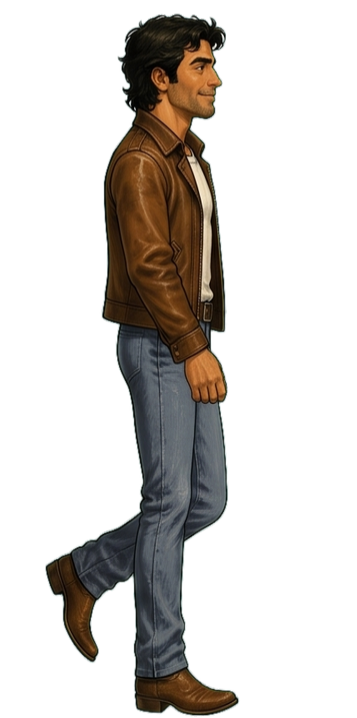
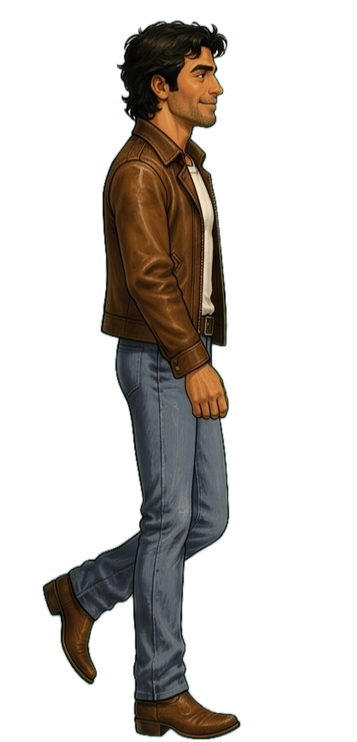
Alan's one-sheet walk: matching hair across the stride, head size matched, walk lab slip computed per change of painting
scripts/walk_head_swap.py (far-leg frames take the near-leg heads), walk_sheet.py HEAD_K x1.025, walk lab
slip from the art and plant data instead of a live reading. Still a review candidate; entry 14 in
docs/animation_handoff.md.

Claude-Session: https://claude.ai/code/session_01UtGBnvdVMycaw7qyBygjUk

diff --git a/js/walklab.js b/js/walklab.js
@@ -6,7 +6,10 @@
 //   size   the head's width against the cycle's median frame (a frame drawn bigger or smaller makes him pulse)
 //   rise   the figure's height against the cycle's median frame (the bob: low just after the heel lands, high passing)
 //   floor  where the feet touch the ground
-// and, while he walks, how far the planted foot drifts on the floor per step. Nothing here changes the game.
+//   slip   at each change of painting, how far the next painting's boot lands from where the planted foot stood,
+//          computed from the art, the plant data (S.WALK_PLANT) and the step lengths the engine uses (walkLen), so
+//          the same cycle always gives the same numbers (the live readout under the buttons depends on timing)
+// Nothing here changes the game.
 (function () {
   const S = window.S, { G } = S, E = window.Engine;
   const $ = s => document.querySelector(s);
@@ -49,12 +52,37 @@
     const ws = [];
     for (let j = top; j < top + Math.max(4, fig * 0.09); j++) { let l = -1, r = -1; for (let i = 0; i < W; i++) if (a(i, j)) { if (l < 0) l = i; r = i; } if (l >= 0) ws.push(r - l); }
     ws.sort((p, q) => p - q);
-    // feet on the floor: opaque columns in the bottom 1.5% above the feet line, in runs
-    const band = Math.max(3, fig * 0.015), cols = [];
+    // feet on the floor: opaque columns in the bottom 2.5% above the feet line, in runs (a boot up on its toes still counts);
+    // each foot's position is the centre of its boot (the opaque pixels of that run over the bottom 10% of the figure),
+    // the same point scripts/walk_plant.py measures for S.WALK_PLANT, so a heel strike and a flat foot compare alike
+    const band = Math.max(3, fig * 0.025), cols = [];
     for (let i = 0; i < W; i++) { let on = false; for (let j = Math.round(fy - band); j <= fy; j++) if (j >= 0 && a(i, j)) { on = true; break; } cols.push(on); }
     const feet = []; let s0 = -1;
     cols.concat([false]).forEach((on, i) => { if (on && s0 < 0) s0 = i; if (!on && s0 >= 0) { if (i - s0 > 3) feet.push([s0, i - 1]); s0 = -1; } });
-    return (MEAS[key] = { head: (ws[ws.length >> 1] || 0) / sp.h, rise: fig / sp.h, feet, sp });
+    const boot = Math.max(6, fig * 0.10);
+    const centre = ([l, r]) => { // grow the run sideways over the boot band, then the mean x of its opaque pixels
+      let L = l, R = r, n = 0, sx = 0; const on = i => { for (let j = Math.round(fy - boot); j <= fy; j++) if (j >= 0 && a(i, j)) return true; return false; };
+      while (L > 0 && on(L - 1)) L--; while (R < W - 1 && on(R + 1)) R++;
+      for (let i = L; i <= R; i++) for (let j = Math.round(fy - boot); j <= fy; j++) if (j >= 0 && a(i, j)) { n++; sx += i; }
+      return n ? sx / n : (l + r) / 2;
+    };
+    const feetC = feet.map(centre);
+    return (MEAS[key] = { head: (ws[ws.length >> 1] || 0) / sp.h, rise: fig / sp.h, feet, feetC, sp });
+  }
+
+  // slip after each frame of a cycle, in px at the size he's drawn now: frame i is drawn with its anchor at 0, the next
+  // at walkLen[i] (the engine's step, in his heights); the planted foot is frame i's floor contact nearest its plant
+  // point, and the slip is how far the nearest floor contact of the next frame lands from it. null: no plant data.
+  function slips(frames) {
+    const P = S.WALK_PLANT || {}, F = S.CHARS[st.ch].frames, p = G.player;
+    if (!frames.length || !frames.every(k => P[k]) || !F.walkLen || F.walk.join() !== frames.join()) return frames.map(() => null);
+    const px = p && p.height ? p.height() : 300;
+    const contacts = k => { const m = measure(k); return m ? m.feetC.map(c => (c - m.sp.ax) / m.sp.h) : null; };
+    return frames.map((k, i) => {
+      const n = frames[(i + 1) % frames.length], ci = contacts(k), cn = contacts(n); if (!ci || !cn || !ci.length || !cn.length) return null;
+      const planted = ci.reduce((b, c) => Math.abs(c - P[k][0]) < Math.abs(b - P[k][0]) ? c : b);
+      return Math.min(...cn.map(c => Math.abs(F.walkLen[i] + c - planted))) * px;
+    });
   }
 
   // ---------------------------------------------------------------- the panel
@@ -75,12 +103,16 @@
     // sizes against the cycle's own median frame (the standing frame's hair is shaped differently)
     const ms = frames.map(measure).filter(Boolean), med = v => { const a = ms.map(v).sort((p, q) => p - q); return a[a.length >> 1]; };
     const m0 = ms.length ? { head: med(m => m.head), rise: med(m => m.rise) } : null;
-    const rows = frames.map(k => {
+    const slip = slips(frames), sl = slip.filter(v => v != null);
+    const slipLine = !sl.length ? '' : (() => { const avg = sl.reduce((a, b) => a + b, 0) / sl.length, mx = Math.max(...sl), at = frames[slip.indexOf(mx)];
+      return `Planted foot at each change of painting: average <b>${avg.toFixed(1)} px</b>, worst <b${mx > LIMITS.slide ? ' style="color:#ff9a8a"' : ''}>${mx.toFixed(1)} px</b> (after ${at.replace(st.ch + '_', '')}).`; })();
+    const sizeBad = frames.filter(k => { const m = measure(k); return m && m0 && Math.abs(m.head / m0.head - 1) > LIMITS.size; }).length;
+    const rows = frames.map((k, fi) => {
       const m = measure(k); if (!m || !m0) return `<tr><td>${k}</td><td colspan=3>(not loaded)</td></tr>`;
       const size = m.head / m0.head - 1, rise = m.rise / m0.rise - 1, bad = Math.abs(size) > LIMITS.size;
-      return `<tr${bad ? ' style="color:#ff9a8a"' : ''}><td>${k.replace(st.ch + '_', '')}</td><td>${(size * 100).toFixed(1)}%</td><td>${(rise * 100).toFixed(1)}%</td><td>${m.feet.length}</td></tr>`;
+      const sv = slip[fi];
+      return `<tr${bad ? ' style="color:#ff9a8a"' : ''}><td>${k.replace(st.ch + '_', '')}</td><td>${(size * 100).toFixed(1)}%</td><td>${(rise * 100).toFixed(1)}%</td><td>${m.feet.length}</td><td${sv > LIMITS.slide ? ' style="color:#ff9a8a"' : ''}>${sv == null ? '' : sv.toFixed(1)}</td></tr>`;
     }).join('');
-    const sizeBad = frames.filter(k => { const m = measure(k); return m && m0 && Math.abs(m.head / m0.head - 1) > LIMITS.size; }).length;
     box.innerHTML = `<b style="color:#e0b866">Walk lab</b> <span style="opacity:.7">(nothing here changes the game)</span><br>
       <label>Who <select id="wl-ch">${WALKERS().map(c => `<option${c === st.ch ? ' selected' : ''}>${c}</option>`).join('')}</select></label>
       <label>Cycle <select id="wl-cy">${names.map(n => `<option${n === st.cycle ? ' selected' : ''}>${n}</option>`).join('')}</select></label>
@@ -92,8 +124,9 @@
       Planted foot <select id="wl-lock">${[['1', 'locked'], ['0.5', 'half'], ['0', 'gliding (old)']].map(([v, n]) => `<option value="${v}"${+v === wo().lock ? ' selected' : ''}>${n}</option>`).join('')}</select>
       Between frames <select id="wl-blend">${['cut', 'dissolve', 'morph'].map(v => `<option${v === wo().blend ? ' selected' : ''}>${v}</option>`).join('')}</select>
       Timing <select id="wl-time">${[['foot', 'by the foot'], ['even', 'even (old)']].map(([v, n]) => `<option value="${v}"${v === wo().timing ? ' selected' : ''}>${n}</option>`).join('')}</select>
-      <div id="wl-live" style="margin-top:4px;color:#cfe8b0"></div>
-      <table style="margin-top:4px;border-collapse:collapse;font-size:11px" cellpadding="1"><tr style="color:#e0b866"><td>frame</td><td>size</td><td>rise</td><td>feet</td></tr>${rows}</table>
+      <div id="wl-slip" style="margin-top:4px;color:#cfe8b0">${slipLine}</div>
+      <div id="wl-live" style="margin-top:2px;opacity:.75"></div>
+      <table style="margin-top:4px;border-collapse:collapse;font-size:11px" cellpadding="1"><tr style="color:#e0b866"><td>frame</td><td>size</td><td>rise</td><td>feet</td><td>slip px</td></tr>${rows}</table>
       <div style="margin-top:3px">${frames.length ? `${frames.length} frames. Size ${sizeBad ? `<b style="color:#ff9a8a">${sizeBad} frame(s) more than ${LIMITS.size * 100}% off</b>` : 'consistent'}.` : '<b style="color:#ff9a8a">no walk cycle: this character glides</b>'}
       Rise: lowest just after a heel lands, highest passing.</div>`;
     $('#wl-ch').onchange = e => { st.ch = e.target.value; st.cycle = null; apply(); render(); };
@@ -170,7 +203,7 @@
     const live = $('#wl-live');
     if (live && slides.length) {
       const avg = slides.reduce((a, b) => a + b, 0) / slides.length, mx = Math.max(...slides);
-      live.innerHTML = `Planted foot drift per frame: average ${avg.toFixed(1)} px, worst ${mx.toFixed(1)} px ${avg > LIMITS.slide ? '<b style="color:#ff9a8a">(slides)</b>' : '(holds)'} · frame ${p.cur ? p.cur.replace(st.ch + '_', '') : ''}`;
+      live.innerHTML = `Live (depends on timing): drift per frame average ${avg.toFixed(1)} px, worst ${mx.toFixed(1)} px · frame ${p.cur ? p.cur.replace(st.ch + '_', '') : ''}`;
     } else if (live) live.textContent = p.cur ? 'frame ' + p.cur.replace(st.ch + '_', '') : '';
   }
   S.walkLab = async function () {

diff --git a/js/story/core.js b/js/story/core.js
@@ -110,8 +110,8 @@
     alan_walkUp: [-0.136], alan_walk_up1: [-0.101],
     alan_walk_pass1L: [0.061], alan_walk_up1L: [-0.105], alan_walk_pass2L: [-0.002], alan_walk_up2L: [0.004],
     alan_walk_pre1L: [0.102], alan_walk_pre2L: [0.106], alan_walk_contact_farL: [0.176, -0.170], // the low-swing walk
-    alan_walk6_p1: [0.188, -0.160], alan_walk6_p3: [0.111], alan_walk6_p5: [0.016], alan_walk6_p7: [-0.078], // the one-sheet set
-    alan_walk6_p9: [0.193, -0.171], alan_walk6_p11: [0.108], alan_walk6_p13: [0.026], alan_walk6_p15: [-0.076],
+    alan_walk6_p1: [0.190, -0.161], alan_walk6_p3: [0.115], alan_walk6_p5: [0.016], alan_walk6_p7: [-0.081], // the one-sheet set
+    alan_walk6_p9: [0.196, -0.176], alan_walk6_p11: [0.112], alan_walk6_p13: [0.024], alan_walk6_p15: [-0.081],
   };
   S.walkTiming = F => {
     const W = F.walk, P = S.WALK_PLANT;

diff --git a/index.html b/index.html
@@ -98,7 +98,7 @@
 <script src="js/engine/stills.js?v=dc1dd98f"></script>
 <script src="js/engine/saves.js?v=bf99a319"></script>
 <script src="js/engine.js?v=cd1830e0"></script>
-<script src="js/story/core.js?v=98cfb961"></script>
+<script src="js/story/core.js?v=76665310"></script>
 <script src="js/story/ines.js?v=ecf088f4"></script>
 <script src="js/story/docs.js?v=25cb1ef1"></script>
 <script src="js/story/ch1.js?v=b62e29ec"></script>

diff --git a/scripts/walk_sheet.py b/scripts/walk_sheet.py
@@ -5,6 +5,7 @@
 # base frame's canvas at ONE shared scale (median of the head-to-waist fits), feet on the floor line, head over head.
 #   python3 scripts/walk_sheet.py alan alan_walkA "<who: a man in a brown leather jacket...>" art/review/alan/walk6
 #   python3 scripts/walk_sheet.py --split-only alan alan_walkA "" art/review/alan/walk6     (re-split a saved raw)
+# then, if the two halves' hair differs: python3 scripts/walk_head_swap.py art/review/alan/walk6 0.15
 # Logs to art/review/log.md like gen_image.py. The API key comes from .env and is never printed.
 import base64, datetime, io, json, os, sys
 import numpy as np
@@ -18,7 +19,11 @@ POSES = [1, 3, 5, 7, 9, 11, 13, 15]
 CURRENT = {'alan_walkA': ['alan_walkA', 'alan_walkDown', 'alan_pass', 'alan_walkUp', 'alan_walkB']}  # the frames in the game now
 _t = open(os.path.join(ROOT, 'js/sprites.js')).read(); SPR = json.loads(_t[_t.index('{'):_t.rindex('}') + 1])
 CW, CH = 480, 720
-PAD = 16  # headroom over the base frame's canvas: the stretched legs lift the head (the candidates' meta adds it to fy and hh)
+PAD = 40  # headroom over the base frame's canvas: the stretched legs lift the head (the candidates' meta adds it to fy and hh)
+# after the trunk fit, one more uniform scale so the head is the size it is in his other frames: Alan's sheet came
+# back with heads 91.5 px wide (walk lab measure) against 93 in the walk he has now and 94.5 standing; x1.025 puts
+# it between the two
+HEAD_K = {'alan_walkA': 1.025}
 
 
 def stick_sheet():
@@ -85,6 +90,7 @@ def split(base, out_dir):
     for f in figs:
         t, bo, x, w = measure(f); scales.append((bw - bt) / (w - t))
     s = float(np.median(scales)); print('per-figure scales', ' '.join(f'{k:.3f}' for k in scales), f'-> one scale {s:.3f}')
+    s *= HEAD_K.get(base, 1.0)
     ys = [measure(f)[1] for f in figs]
     for r in range(2):  # each row stands on one ground line: its lowest foot
         row_floor = max(ys[r * 4:(r + 1) * 4])
@@ -94,7 +100,7 @@ def split(base, out_dir):
     # current walk frames (median waist-to-floor) and he doesn't shrink when he starts walking
     cur = [measure(np.asarray(Image.open(os.path.join(ROOT, f'art/sprites/{k}.webp')).convert('RGBA'))) for k in CURRENT[base]]
     target = float(np.median([bo - w for t, bo, x, w in cur]))
-    legs = [(measure(f)[1] - measure(f)[3]) * s for f in figs]
+    legs = [(measure(f)[1] - measure(f)[3]) * s / HEAD_K.get(base, 1.0) for f in figs]  # the legs' target is set before the head scale
     k = target / float(np.median(legs)); print(f'legs {np.median(legs):.0f}px -> {target:.0f}px: stretched x{k:.3f}')
     for n_, f, floor in zip(POSES, figs, ys):
         gi = Image.fromarray(f, 'RGBA'); gi = gi.resize((round(gi.width * s), round(gi.height * s)), Image.LANCZOS)

diff --git a/scripts/walk_head_swap.py b/scripts/walk_head_swap.py
@@ -1,0 +1,28 @@
+# The two halves of a one-sheet walk (scripts/walk_sheet.py) can come back with the hair painted a little differently
+# (Alan's far-leg row had the back of the hair slimmer), which flickers twice a step. This gives each frame of the
+# second half the head of its counterpart in the first half (1->9, 3->11, 5->13, 7->15): the counterpart's head is
+# aligned on the face (smallest difference over small shifts), pasted above the chin and blended into the neck.
+#   python3 scripts/walk_head_swap.py <dir with pose<N>.png> <chin as a share of the figure height, e.g. 0.15>
+import sys, numpy as np
+from PIL import Image
+d, chin = sys.argv[1], float(sys.argv[2])
+PAIRS = [(1, 9), (3, 11), (5, 13), (7, 15)]
+for src, dst in PAIRS:
+    A = np.asarray(Image.open(f'{d}/pose{src}.png').convert('RGBA')).astype(np.float32)
+    B = np.asarray(Image.open(f'{d}/pose{dst}.png').convert('RGBA')).astype(np.float32)
+    rows = np.nonzero((B[..., 3] > 128).any(1))[0]; top, bot = rows.min(), rows.max()
+    cut = int(top + chin * (bot - top)); face = slice(top + int(0.03 * (bot - top)), cut)    # forehead to chin
+    best = None
+    for dy in range(-12, 13):
+        for dx in range(-20, 21):
+            a = np.roll(np.roll(A, dy, 0), dx, 1)
+            e = np.abs(a[face, :, :3] - B[face, :, :3]).mean() + np.abs(a[face, :, 3] - B[face, :, 3]).mean()
+            if best is None or e < best[0]: best = (e, dy, dx)
+    a = np.roll(np.roll(A, best[1], 0), best[2], 1)
+    # weight 1 above the chin, fading to 0 over 10 px into the neck; only where the head is (top fifth of the figure)
+    y = np.arange(B.shape[0])[:, None].astype(np.float32)
+    w = np.clip((cut + 10 - y) / 10, 0, 1) * np.ones((1, B.shape[1]), np.float32)
+    w[:top - 20 if top > 20 else 0] = 1
+    out = a * w[..., None] + B * (1 - w[..., None])
+    Image.fromarray(np.clip(out, 0, 255).astype(np.uint8), 'RGBA').save(f'{d}/pose{dst}.png')
+    print(f'pose{dst}: head from pose{src}, shifted {best[2]:+d},{best[1]:+d} px (difference {best[0]:.1f})')

diff --git a/docs/animation_handoff.md b/docs/animation_handoff.md
@@ -139,6 +139,25 @@ session lived in the session's scratchpad and are gone; everything that matters 
    Review page with both walks playing as the engine plays them, approve/reject and a note:
    https://claude.ai/artifact/RoCMGALM4FXgJWdTKrg3v9 (db doc `decision/alan_walk6`: `{pick, note}`). On approve:
    mark the 8 ids approved in art/review/approvals.json (walkAll needs all 8), smoke, commit.
+14. **Alan's one-sheet walk, three fixes the user asked for (1-3), still waiting for the decision.**
+   - **Hair:** the far-leg row's hair was painted slimmer at the back (a flicker twice a step).
+     `scripts/walk_head_swap.py` gives each far-leg frame its near-leg counterpart's head (1->9, 3->11, 5->13, 7->15),
+     aligned on the face (shifts of 1-2 px) and blended into the neck over 10 px below the chin (0.15 of the figure);
+     the join is invisible at 4x. Heads now agree to within 1%.
+   - **Head size:** heads were 91.5 px wide (walk lab measure) against 93 in today's walk and 94.5 standing.
+     `walk_sheet.py` HEAD_K x1.025 scales the whole set after the trunk fit (legs keep their stretch, so they're
+     ~385 px). Figures 713-718 px tall; headroom PAD 40 (meta fy 738, hh 742). Order to rebuild:
+     `walk_sheet.py --split-only ...`, then `walk_head_swap.py art/review/alan/walk6 0.15`, then the candidates'
+     webp/meta and plant data (walk_plant.py) as in entry 13.
+   - **Walk lab reading:** the drift number was read live, so it depended on frame timing, counted his start and stop
+     frames and could pair two different boots (12-21 px for the same cycle). Now the lab computes a "slip" for each
+     change of painting from the art, the plant data and the engine's walkLen: same answer every run. Each foot is
+     the centre of its boot over the bottom 10% of the figure (the point walk_plant.py measures; floor-contact centres
+     put a heel strike and a flat foot at different points). Floor band widened 1.5% -> 2.5% so a boot on its toes
+     counts. Readings: today's walk 1.5 px average / 3.8 worst; the new set 0.8 / 2.7. The live readout stays,
+     labelled as timing-dependent. (Tried and dropped: template-matching the boot between frames; the boot rotates
+     as the heel rolls, and in the far-leg half it matched the wrong boot.)
+   Review page republished with the fixed frames (same link).
 
 ## Where things stand (session handoff, 2026-10-20)
 
